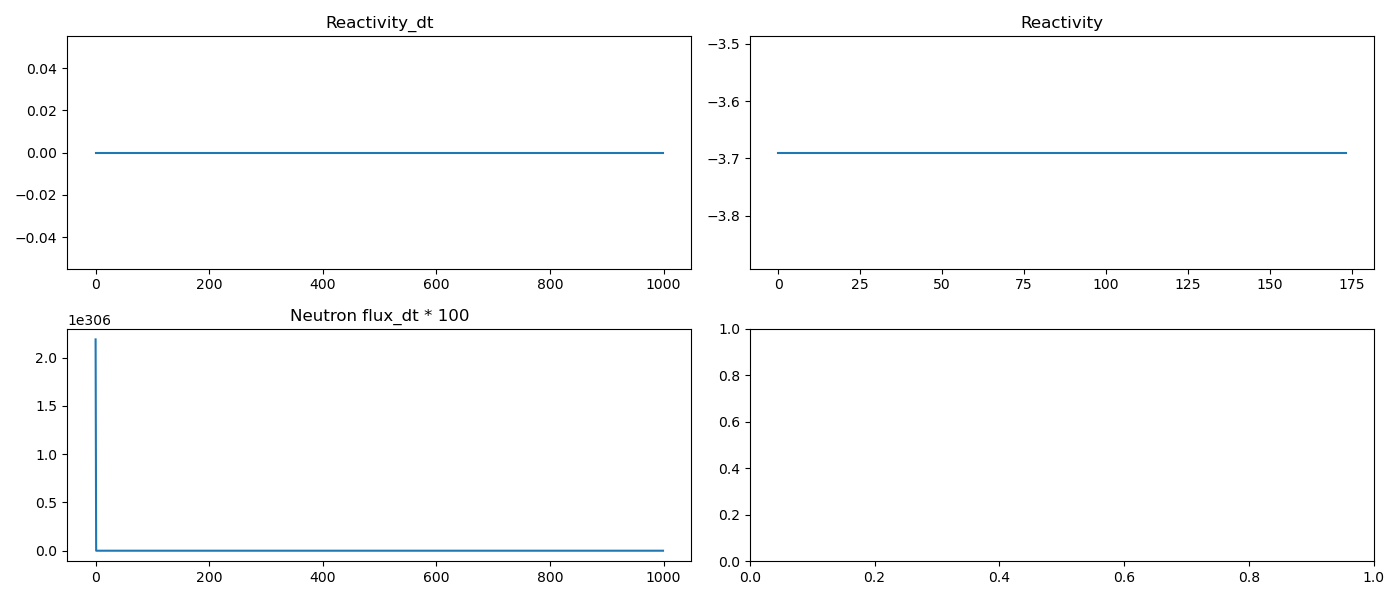
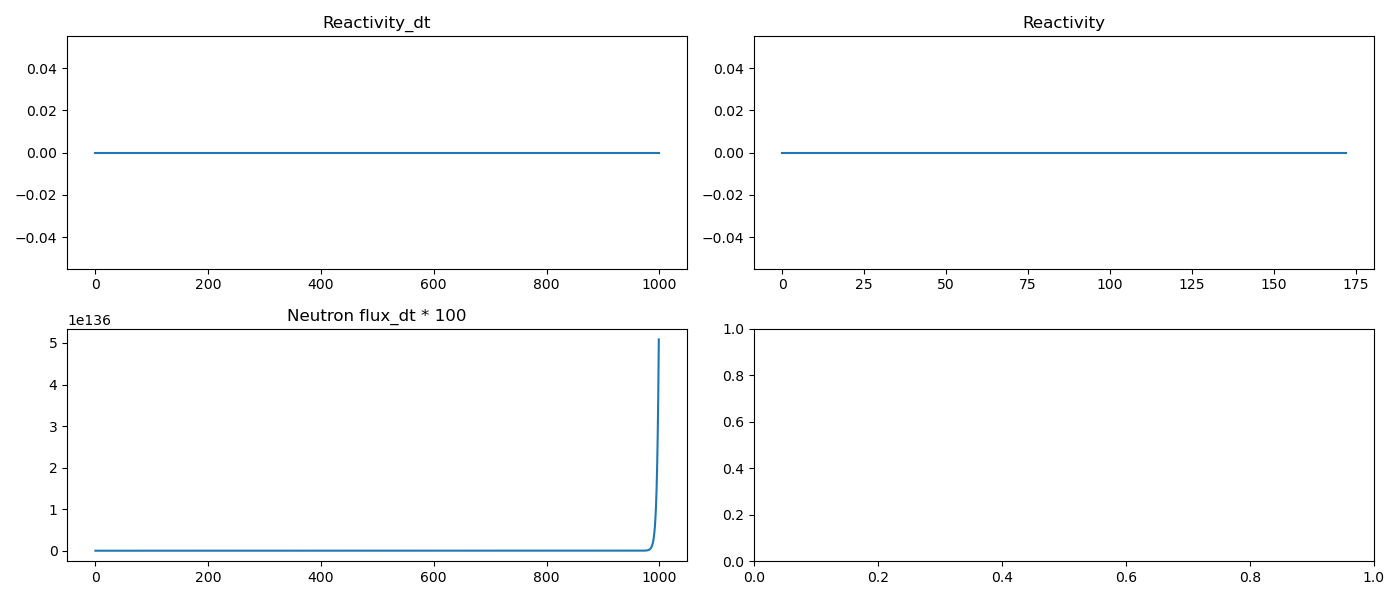
parameters

diff --git a/parameters.py b/parameters.py
@@ -5,16 +5,16 @@ def generate_parameters(
     dt=0.1, # fixed time step
     L = 172,  # Length of the spatial domain, m
     # L = 22.9
-    N = 200,  # Number of spatial points
+    N = 172,  # Number of spatial points
     # V = 4e5
     V = 1.103497 * 1e7,  # cm/s   
     # V = 2.2e5,        
     # D = 0.390016 * 8   
-    D = 0.96343 * 5,  # cm 
+    D = 0.96343 * 7,  # cm 
     # D = 1.02,  
     # sigma_a =0.0835   
-    sigma_a=1.58430*1e-2/5, # cm^-1        
-    nu_sigma_f = 3.33029e-2/5, # cm^-1
+    sigma_a=1.58430*1e-2/7.5, # cm^-1        
+    nu_sigma_f = 3.33029e-2/7.5, # cm^-1
     # sigma_a = 0.00054869,
     # nu_sigma_f = 0.00098328,
     # nu_sigma_f = 3.33029

diff --git a/ode_solver.py b/ode_solver.py
@@ -17,6 +17,6 @@ def ode_solver(ic, bc, vector_to_be_solved, params):
     
     time_span=(0,1)
     # Solve the system of ODEs
-    solution = solve_ivp(vector_to_be_solved, time_span, y0, method='RK23')
+    solution = solve_ivp(vector_to_be_solved, time_span, y0, method='Radau')
     
     return solution

diff --git a/reactivity.py b/reactivity.py
@@ -58,7 +58,7 @@ def reactivity(temperature_fuel, temperature_graphite, step, time_span, rho_inse
     
     rho=rho_0+rho_feedback+react
     
-    rho=0
+    rho=0 * np.ones(N)
     rho=0.369e-4 * np.ones(N)
     # if step<=1:
     #     rho=0.0045/2*step*np.ones(N)
